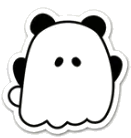
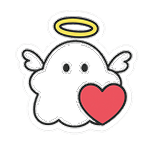
design: update manitee profile photo

diff --git a/frontend/src/pages/Report/ReportDetailPage.tsx b/frontend/src/pages/Report/ReportDetailPage.tsx
@@ -5,7 +5,8 @@ import type { StackProps } from '@chakra-ui/react'
 import { getRequest } from '@/api/requests';
 import { isAxiosError } from 'axios';
 import ProfileCard from '@/components/profile/ProfileCard';
-
+import profile_manito from '@/assets/ttomas/profile_manito.png'
+import profile_manitee from '@/assets/ttomas/profile_manitee.png'
 interface ReportDetail {
   roomId: number;
   roomName: string;
@@ -184,6 +185,7 @@ const ReportDetailPage = () => {
                 title="내 마니또"
                 name={report.receivingHelp.manittoName || '알 수 없음'}
                 subtitle="나의 소중한 마니또"
+                src={profile_manito}
             />
             <VStack gap={0} align="stretch" textStyle="body_sm">
                 <StatsDisplay title="내 정답 순위" value={`${report.receivingHelp.stats.myCorrectGuessCount > 0 ? '1위' : '-'}`} borderBottomWidth="1px" borderColor="gray.200" />
@@ -214,6 +216,7 @@ const ReportDetailPage = () => {
                 title="내 마니띠"
                 name={report.givingHelp.manitteeName || '알 수 없음'}
                 subtitle="내가 도와준 마니띠"
+                src={profile_manitee}
             />
             <VStack gap={0} align="stretch" textStyle="body_sm">
                 <StatsDisplay title="내 정답 순위" value={`${report.givingHelp.stats.myCorrectGuessCount > 0 ? '1위' : '-'}`} borderBottomWidth="1px" borderColor="gray.200" />

diff --git a/frontend/src/pages/Home/HomePage.tsx b/frontend/src/pages/Home/HomePage.tsx
@@ -33,7 +33,7 @@ import ttoma_notes from '@/assets/mission_icons/ttoma_notes.svg';
 import ttoma_observation from '@/assets/mission_icons/ttoma_observation.svg';
 import ttoma_performance from '@/assets/mission_icons/ttoma_performance.svg';
 import { useAuth } from '@/stores/authStore';
-import ttoma_profile from '@/assets/ttomas/ttoma_profile.png';
+import profile_manitee from '@/assets/ttomas/profile_manitee.png'
 
 // 타입 정의
 interface Participant {
@@ -260,7 +260,7 @@ const GameHomePage = () => {
       return <Flex justify="center" align="center" h="150px"><Spinner size="lg" /></Flex>;
     }
     if (manitoProfile) {
-      return <ProfileCard title="내 마니띠" name={manitoProfile.name} subtitle={manitoProfile.statusMessage} src={manitoProfile.profileImageUrl || ttoma_profile} />;
+      return <ProfileCard title="내 마니띠" name={manitoProfile.name} subtitle={manitoProfile.statusMessage} src={profile_manitee} />;
     }
     return <Flex justify="center" align="center" h="100px"><Text textStyle="body_md">마니띠 정보를 찾을 수 없습니다.</Text></Flex>;
   };

diff --git a/frontend/src/pages/Room/RoomCreatePage.tsx b/frontend/src/pages/Room/RoomCreatePage.tsx
@@ -114,8 +114,8 @@ const handleCreateRoom = async () => {
   };
 
   return (
-    <Box px={8} py={6}>
-      <Text textStyle="title_mlg" m={8}>방 생성하기</Text>
+    <Box p={3} m={3}>
+      <Text textStyle="title_mlg" m={8}>✪ 방 생성하기</Text>
 
       <CommonCard>
         <VStack align="start">
